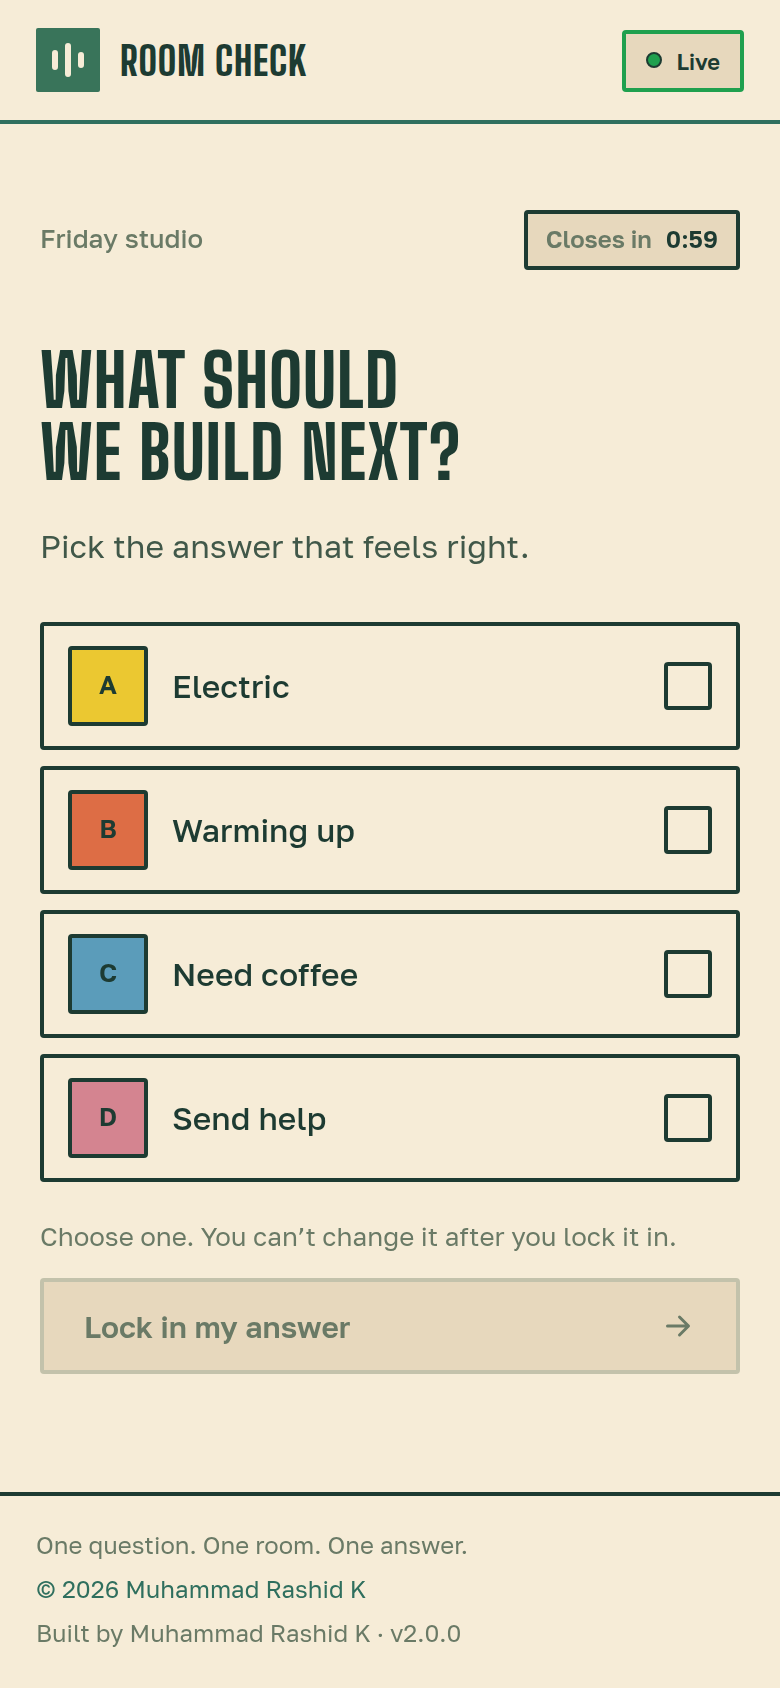
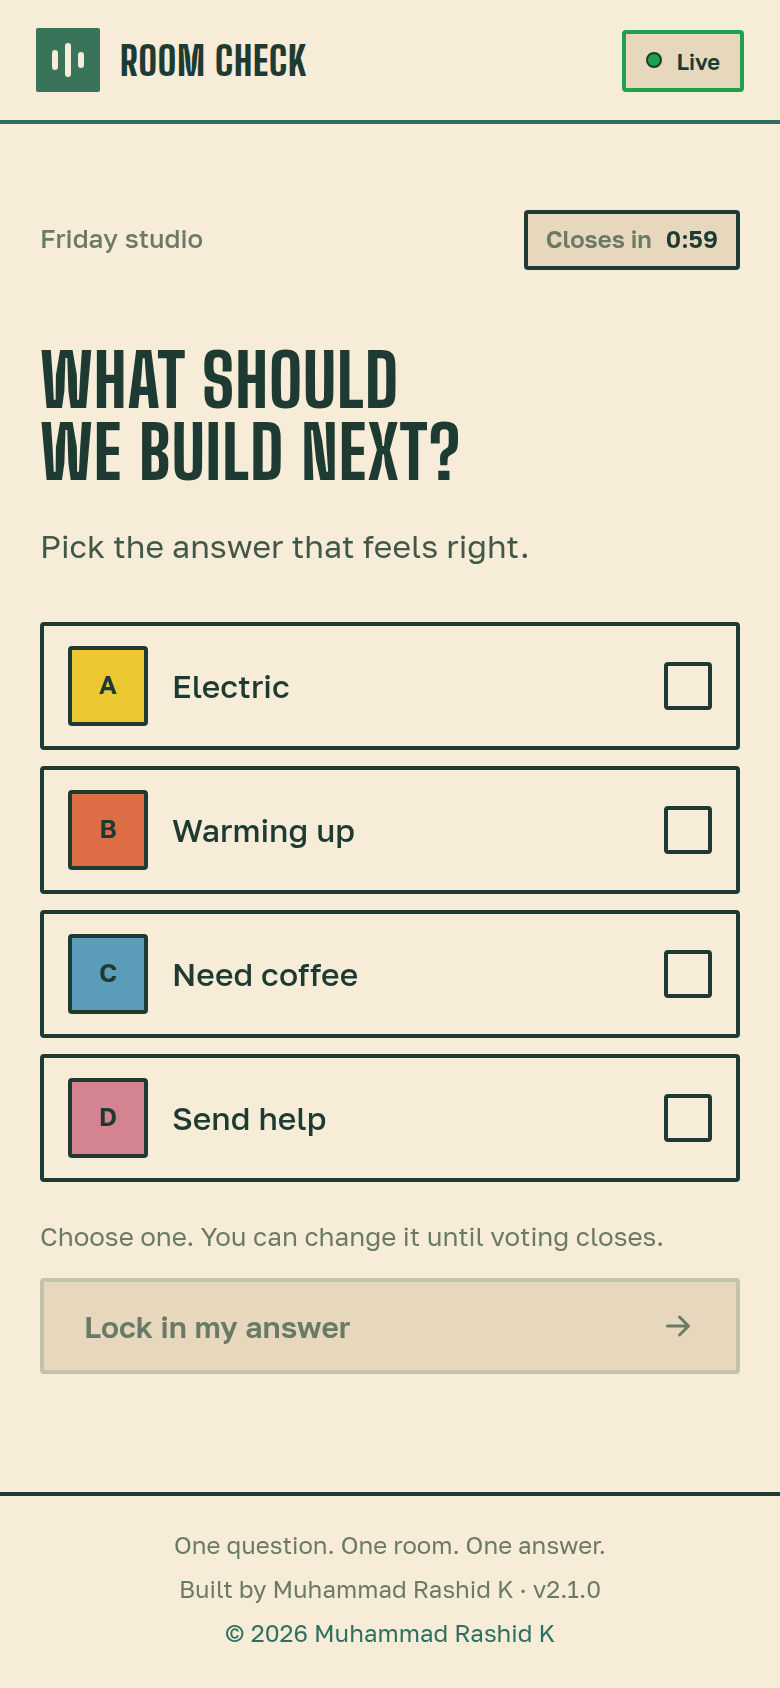
Add vote changes and share progress

Changed region(s): [[0.0615, 0.8934, 0.7692, 0.9858], [0.4, 0.7085, 0.8615, 0.7393]]

diff --git a/public/player.js b/public/player.js
@@ -44,6 +44,8 @@ const votedOption = $("#voted-option");
 const votedCount = $("#voted-count");
 const votedCountLabel = $("#voted-count-label");
 const votedWaiting = $("#voted-waiting");
+const changeVoteButton = $("#change-vote-button");
+const changeVoteNote = $("#change-vote-note");
 const resultsTitle = $("#results-title");
 const resultsEyebrow = $("#results-eyebrow");
 const resultsWinner = $("#results-winner");
@@ -71,6 +73,8 @@ let myVote = null;
 let myHandRaised = false;
 let handsBusy = false;
 let selectedOption = null;
+let changingVote = false;
+let voteWasUpdated = false;
 let submitting = false;
 let clockTimer = null;
 let offlineTimer = null;
@@ -102,8 +106,11 @@ function optionById(optionId) {
 
 function updateSubmitState() {
   if (!voteSubmit) return;
-  const roundOpen = currentState?.round?.status === "open";
-  voteSubmit.disabled = !roundOpen || !selectedOption || submitting;
+  const round = currentState?.round;
+  const roundOpen = round?.status === "open";
+  const timeUp =
+    roundOpen && round.endsAt && round.endsAt <= (connection?.serverNow() ?? Date.now());
+  voteSubmit.disabled = !roundOpen || !selectedOption || submitting || Boolean(timeUp);
 }
 
 function applyChoiceInk(element, colorKey) {
@@ -160,25 +167,53 @@ function buildVoteOptions(round) {
   });
 }
 
-function renderVoteScreen(round, { force = false } = {}) {
+function renderVoteScreen(round, { force = false, selected = null } = {}) {
   const roundChanged = renderedRoundId !== round.id;
   if (roundChanged || force) {
     renderedRoundId = round.id;
-    selectedOption = null;
+    selectedOption = selected;
     $("#vote-question").textContent = round.question;
     $("#vote-eyebrow").textContent =
       round.title && round.title.trim().toLowerCase() !== "room check"
         ? round.title
         : "Live question";
     buildVoteOptions(round);
-    voteSubmit.querySelector("span").textContent = "Lock in my answer";
-    voteHelp.textContent = "Choose one. You can’t change it after you lock it in.";
-    voteSubmit.disabled = true;
+    if (selectedOption) {
+      const input = Array.from(voteOptions.querySelectorAll('input[name="answer"]')).find(
+        (candidate) => candidate.value === selectedOption,
+      );
+      if (input) {
+        input.checked = true;
+        input.closest(".vote-option")?.classList.add("is-selected");
+      } else {
+        selectedOption = null;
+      }
+    }
+    voteSubmit.querySelector("span").textContent = changingVote
+      ? "Update my answer"
+      : "Lock in my answer";
+    voteHelp.textContent = changingVote
+      ? "Choose a new answer. Your current vote stays until you update it."
+      : "Choose one. You can change it until voting closes.";
+    voteSubmit.disabled = !selectedOption;
     window.scrollTo({ top: 0, behavior: "auto" });
   }
   const changed = showScreen("vote");
   if (changed) announce(`Voting is open. ${round.question}`);
   updateClock();
+}
+
+function updateChangeVoteState() {
+  if (!changeVoteButton || !changeVoteNote) return;
+  const round = currentState?.round;
+  const open = round?.status === "open" && currentScreen === "voted";
+  const remaining =
+    open && round.endsAt ? round.endsAt - (connection?.serverNow() ?? Date.now()) : null;
+  const canChange = Boolean(open && (remaining === null || remaining > 0));
+  changeVoteButton.hidden = !canChange;
+  changeVoteNote.textContent = canChange
+    ? "You can change this until voting closes."
+    : "Voting has closed. Your previous answer stands.";
 }
 
 function renderVotedScreen(round) {
@@ -200,7 +235,15 @@ function renderVotedScreen(round) {
     votedWaiting.textContent = "The room is weighing in…";
   }
   const changed = showScreen("voted");
-  if (changed) announce(`Vote locked in. You picked ${chosen.label}. Waiting for the reveal.`);
+  if (changed) {
+    announce(
+      voteWasUpdated
+        ? `Vote updated. You picked ${chosen.label}. Waiting for the reveal.`
+        : `Vote saved. You picked ${chosen.label}. Waiting for the reveal.`,
+    );
+  }
+  voteWasUpdated = false;
+  updateChangeVoteState();
 }
 
 function resultKey(round) {
@@ -443,7 +486,7 @@ function renderScreen() {
     return;
   }
 
-  if (myVote) {
+  if (myVote && !changingVote) {
     renderVotedScreen(round);
   } else {
     renderVoteScreen(round);
@@ -461,8 +504,15 @@ function handleState(state, you) {
   currentState = state;
   currentRoundId = state.round?.id || null;
 
+  if (state.round?.status !== "open") {
+    changingVote = false;
+    voteWasUpdated = false;
+  }
+
   if (previousRoundId !== currentRoundId) {
     myHandRaised = false;
+    changingVote = false;
+    voteWasUpdated = false;
     if (state.round?.mode === "hands") {
       myVote = null;
       myHandRaised = Boolean(you && you.roundId === currentRoundId && you.raised);
@@ -498,6 +548,7 @@ function handleState(state, you) {
 }
 
 function updateClock() {
+  updateChangeVoteState();
   if (currentState?.round?.mode === "hands") {
     voteClock.hidden = true;
     return;
@@ -514,7 +565,7 @@ function updateClock() {
       voteClock.classList.remove("is-urgent");
       voteClockLabel.textContent = "Voting";
       voteClockValue.textContent = "Open";
-      voteSubmit.disabled = !selectedOption || submitting;
+      updateSubmitState();
     } else {
       const remaining = round.endsAt - connection.serverNow();
       voteClock.classList.toggle("is-urgent", remaining <= 10_000);
@@ -523,6 +574,8 @@ function updateClock() {
       if (remaining <= 0) {
         voteSubmit.disabled = true;
         voteHelp.textContent = "Time’s up — the results are coming.";
+      } else {
+        updateSubmitState();
       }
     }
   }
@@ -575,6 +628,19 @@ voteOptions.addEventListener("change", (event) => {
   updateSubmitState();
 });
 
+changeVoteButton.addEventListener("click", () => {
+  const round = currentState?.round;
+  if (!round || round.status !== "open" || !myVote) return;
+  if (round.endsAt && round.endsAt <= connection.serverNow()) {
+    updateChangeVoteState();
+    return;
+  }
+  changingVote = true;
+  voteWasUpdated = false;
+  renderVoteScreen(round, { force: true, selected: myVote });
+  announce("Choose a new answer. Your current vote stays until you update it.");
+});
+
 voteForm.addEventListener("submit", async (event) => {
   event.preventDefault();
   if (submitting) return;
@@ -591,7 +657,7 @@ voteForm.addEventListener("submit", async (event) => {
   voteSubmit.disabled = true;
   const label = voteSubmit.querySelector("span");
   const original = label.textContent;
-  label.textContent = "Locking it in…";
+  label.textContent = changingVote ? "Updating…" : "Locking it in…";
 
   try {
     const result = await api("/api/vote", {
@@ -600,14 +666,22 @@ voteForm.addEventListener("submit", async (event) => {
     });
     submitting = false;
     label.textContent = original;
+    changingVote = false;
+    voteWasUpdated = Boolean(result.updated);
     if (navigator.vibrate) navigator.vibrate([12, 40, 18]);
     handleState(result.state, result.you);
+    if (currentScreen === "vote") renderScreen();
   } catch (error) {
     submitting = false;
     label.textContent = original;
 
-    if (error.code === "already_voted" && error.payload?.you) {
-      if (error.payload.state) handleState(error.payload.state, error.payload.you);
+    if (error.status === 409 && myVote) {
+      changingVote = false;
+      const round = currentState?.round;
+      if (round) {
+        renderVotedScreen(round);
+        votedWaiting.textContent = "Voting has closed. Your previous answer stands.";
+      }
       return;
     }
 

diff --git a/public/player.html b/public/player.html
@@ -86,7 +86,7 @@
             <legend class="sr-only">Choose one answer</legend>
           </fieldset>
           <div class="vote-actions">
-            <p class="microcopy" id="vote-help">Choose one. You can’t change it after you lock it in.</p>
+            <p class="microcopy" id="vote-help">Choose one. You can change it until voting closes.</p>
             <button class="button button--primary button--wide" id="vote-submit" type="submit" disabled>
               <span>Lock in my answer</span>
               <svg viewBox="0 0 24 24" aria-hidden="true"><path d="M5 12h13M13 6l6 6-6 6" fill="none" stroke="currentColor" stroke-width="2" stroke-linecap="round" stroke-linejoin="round"></path></svg>
@@ -122,13 +122,21 @@
         <div class="success-seal" aria-hidden="true">
           <svg viewBox="0 0 64 64"><circle cx="32" cy="32" r="30"></circle><path d="M19 33l9 9 18-20"></path></svg>
         </div>
-        <p class="eyebrow">Vote locked</p>
+        <p class="eyebrow">Vote saved</p>
         <h1 id="voted-title">You’re in.</h1>
-        <p class="lede">That’s your answer. The room’s answer stays under wraps until the reveal.</p>
+        <p class="lede">Your answer is in. You can change it until voting closes.</p>
 
         <div class="your-pick">
           <span class="your-pick-label">You picked</span>
           <strong id="voted-option"></strong>
+        </div>
+
+        <div class="voted-actions">
+          <button class="button button--secondary button--wide" id="change-vote-button" type="button">
+            <span>Change my answer</span>
+            <svg viewBox="0 0 24 24" aria-hidden="true"><path d="M4 12a8 8 0 1 0 2.3-5.7M4 4v5h5" fill="none" stroke="currentColor" stroke-width="2" stroke-linecap="round" stroke-linejoin="round"></path></svg>
+          </button>
+          <p class="microcopy" id="change-vote-note">You can change this until voting closes.</p>
         </div>
 
         <div class="vote-meter">

diff --git a/public/carnival.css b/public/carnival.css
@@ -887,6 +887,17 @@ html[data-button-style="minimal"] .button--secondary {
   letter-spacing: 0;
 }
 
+.voted-actions {
+  display: grid;
+  gap: 8px;
+  margin-top: 16px;
+}
+
+.voted-actions .microcopy {
+  margin: 0;
+  text-align: center;
+}
+
 .vote-meter {
   margin-top: 18px;
   padding: 16px;

diff --git a/README.md b/README.md
@@ -32,6 +32,7 @@ A self-hosted, real-time audience poll for presentations. Run a vote with a big-
 - Large QR code and live counts for the projector
 - Mobile-first participation page
 - Results hidden until the reveal
+- Change your answer until voting closes
 - Live raised-hand toggle with a presenter-side count
 - End-of-session thank-you screen with a GitHub star link
 - Automatic timer reveal or manual reveal
@@ -267,7 +268,7 @@ npm run share
 
 This creates a temporary Cloudflare quick tunnel and prints an HTTPS address. The QR code and the **Audience** URL use that address automatically.
 
-The first run downloads a small tunnel helper. Cloudflare can take a minute or two to propagate a new hostname; wait for **Public link verified and ready** in the terminal before sharing the QR.
+The first run downloads a small tunnel helper. Cloudflare can take a minute or two to propagate a new hostname; wait for **Public link verified and ready** in the terminal before sharing the QR. Each startup step is timestamped with elapsed time, including the public-link health checks.
 
 Keep the process running for the whole event. The public URL is temporary and generally changes every time you restart `npm run share`.
 
@@ -320,7 +321,7 @@ Host shortcuts:
 | `R` | Reveal results |
 | `F` | Toggle full screen |
 
-Each browser can cast one vote per round. A vote cannot be changed after it is locked in. Results are withheld from the audience until the reveal.
+Each browser can cast one vote per round. Voters can change their answer until voting closes; if a change is rejected because the round has closed, their previous vote stays in place. Results are withheld from the audience until the reveal.
 
 The audience sees a waiting screen before a round starts and automatically switches to the voting screen when the host opens the room.
 

diff --git a/CHANGELOG.md b/CHANGELOG.md
@@ -4,7 +4,7 @@ All notable changes to Room Check are documented here.
 
 ## 2.1.0 — 2026-10-30
 
-This is the update-awareness release.
+This release adds update awareness and lets voters change their answer until voting closes.
 
 ### Added
 
@@ -15,6 +15,8 @@ This is the update-awareness release.
 - Install-specific update instructions for git checkouts and archive installs
 - Step-by-step update commands with per-command copy buttons and a “Copy all commands” action
 - Cross-platform `npm run backup-data` command instead of requiring `tar`
+- Voters can change their answer until voting closes; rejected changes keep the previous vote
+- Timestamped progress and elapsed time in `npm run share`
 - Release notes rendered as Markdown instead of raw text
 - Release notes panel matches the How to update height and scrolls long notes internally
 - `GET /api/update` endpoint with a forced-check option
